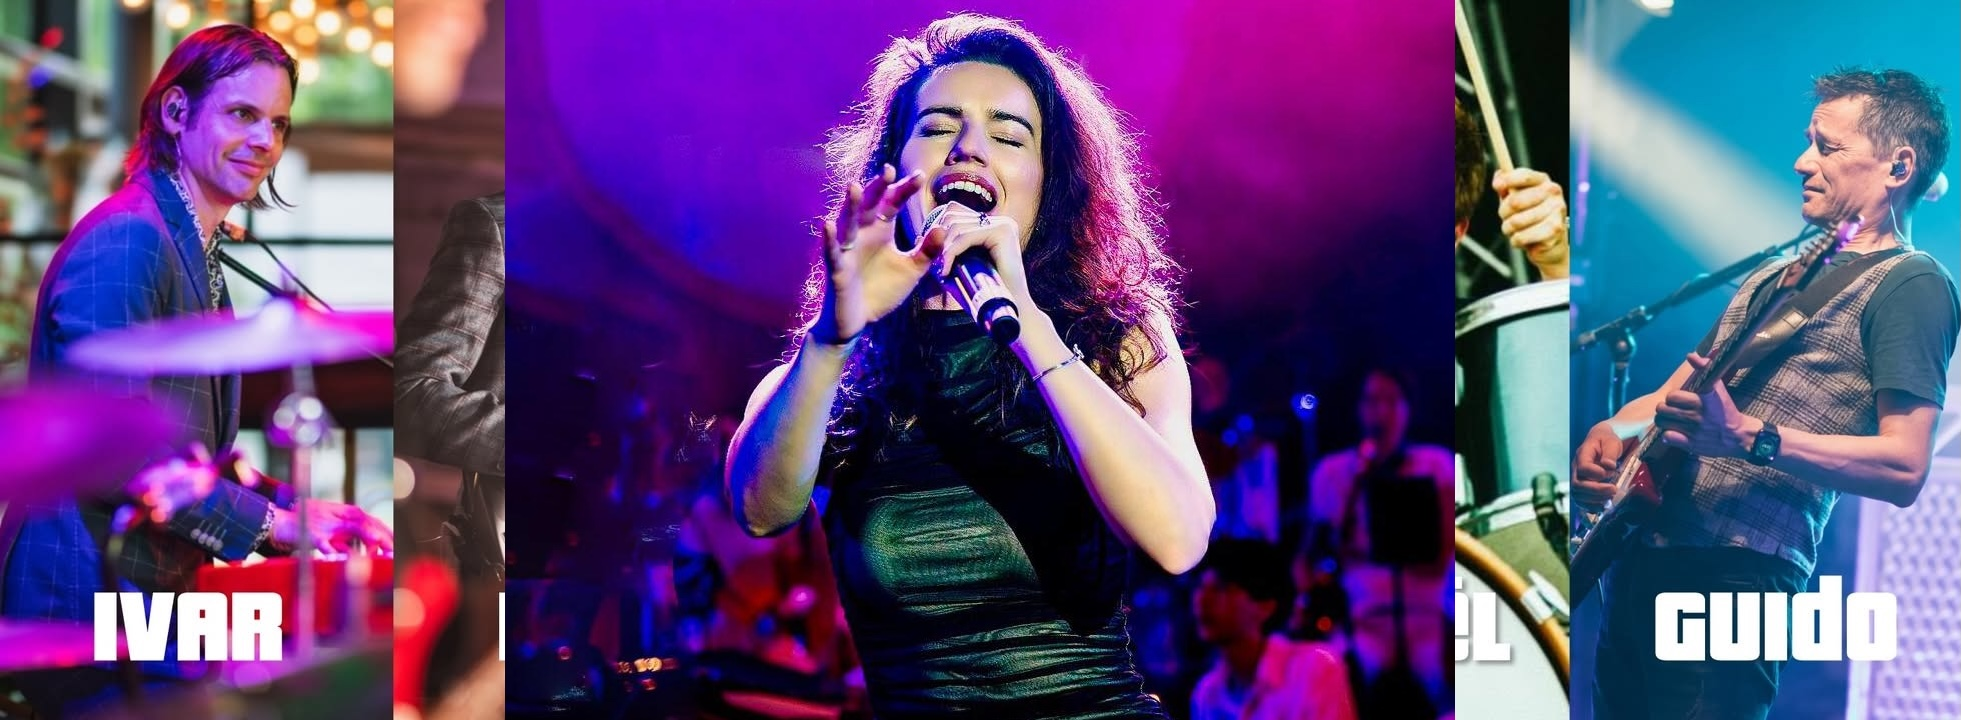
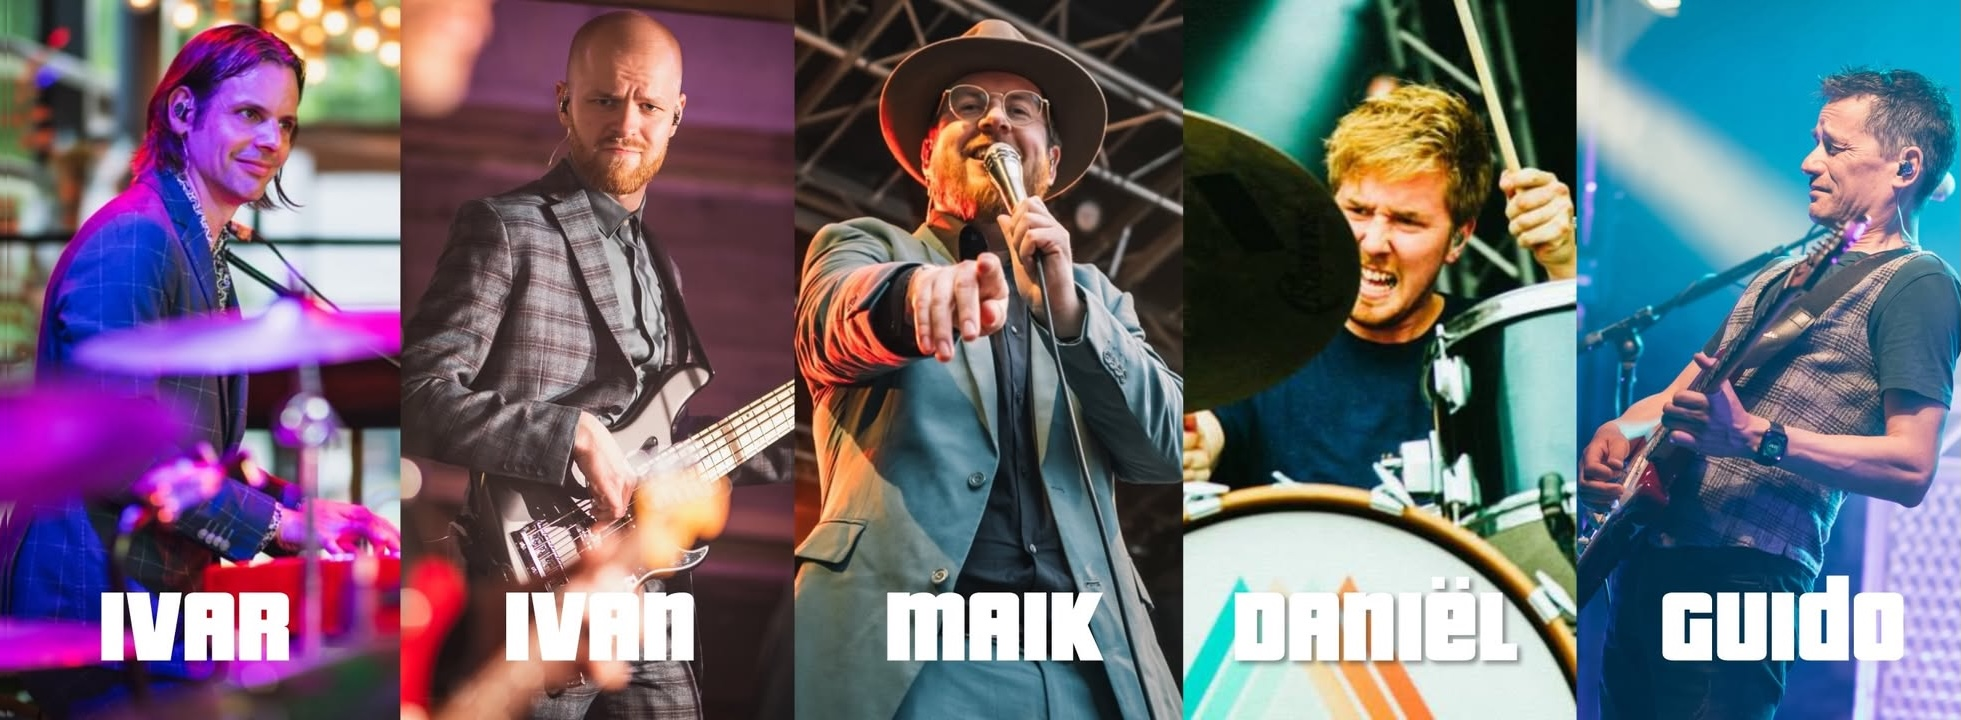
fix: revert over-ons layout, nieuwe band-members.jpg, dropdown hover
- over-ons.html terug naar originele layout (2-col announcement)
- band-members.jpg vervangen door gecorrigeerde versie
- dropdown menu: pseudo-element brug voorkomt hover-onderbreking

diff --git a/over-ons.html b/over-ons.html
@@ -101,44 +101,33 @@
 
 <!-- ANNOUNCEMENT -->
 <section class="section-dark" style="padding:60px 0;">
-  <div class="container" style="max-width:820px;">
-    <div style="background:linear-gradient(135deg,rgba(255,232,0,.12),rgba(255,136,0,.08));border:2px solid var(--yellow);border-radius:12px;padding:40px 48px;">
-      <div style="display:inline-block;background:var(--yellow);color:var(--dark);font-family:'Montserrat',sans-serif;font-weight:700;font-size:.7rem;text-transform:uppercase;letter-spacing:.1em;padding:4px 14px;border-radius:99px;margin-bottom:20px;">Nieuws</div>
-      <h2 style="font-size:clamp(1.4rem,2.5vw,2rem);margin-bottom:16px;color:var(--white);">Welkom, <span style="color:var(--yellow);">Anne Mieke!</span></h2>
-      <p style="color:rgba(255,255,255,.85);margin-bottom:16px;line-height:1.8;">
-        Het heeft ruim 20 jaar geduurd voordat we het aandurfden, maar vol trots kondigen we hierbij aan dat naast onze frontman Maik voortaan een fantastische zangeres zal staan: <strong style="color:var(--white);">Anne Mieke!</strong>
-      </p>
-      <p style="color:rgba(255,255,255,.75);line-height:1.8;">
-        We zijn op zoek gegaan naar een frontvrouw die niet alleen kan zingen, maar ook écht impact heeft en die een perfecte match is met Maik. Anne Mieke stond vorige maand nog als solist te schitteren in Het Concertgebouw in Amsterdam en brengt een bak aan ervaring, muzikaliteit en power mee waar je u tegen zegt.
-      </p>
-    </div>
-  </div>
-</section>
-
-<!-- ANNE MIEKE FOTO -->
-<section class="section-dark2" style="padding:0 0 60px;">
-  <div class="container" style="max-width:820px;">
-    <div style="border-radius:12px;overflow:hidden;box-shadow:0 16px 48px rgba(0,0,0,.5);">
-      <img src="images/anne-mieke.jpg"
-           alt="Anne Mieke — nieuwe frontvrouw jeWelste"
-           style="width:100%;max-height:500px;object-fit:cover;object-position:center top;display:block;">
+  <div class="container">
+    <div style="background:linear-gradient(135deg,rgba(255,232,0,.12),rgba(255,136,0,.08));border:2px solid var(--yellow);border-radius:12px;padding:40px 48px;display:grid;grid-template-columns:1fr 340px;gap:48px;align-items:center;">
+      <div>
+        <div style="display:inline-block;background:var(--yellow);color:var(--dark);font-family:'Montserrat',sans-serif;font-weight:700;font-size:.7rem;text-transform:uppercase;letter-spacing:.1em;padding:4px 14px;border-radius:99px;margin-bottom:20px;">Nieuws</div>
+        <h2 style="font-size:clamp(1.4rem,2.5vw,2rem);margin-bottom:16px;color:var(--white);">Welkom, <span style="color:var(--yellow);">Anne Mieke!</span></h2>
+        <p style="color:rgba(255,255,255,.85);margin-bottom:16px;line-height:1.8;">
+          Het heeft ruim 20 jaar geduurd voordat we het aandurfden, maar vol trots kondigen we hierbij aan dat naast onze frontman Maik voortaan een fantastische zangeres zal staan: <strong style="color:var(--white);">Anne Mieke!</strong>
+        </p>
+        <p style="color:rgba(255,255,255,.75);line-height:1.8;">
+          We zijn op zoek gegaan naar een frontvrouw die niet alleen kan zingen, maar ook écht impact heeft en die een perfecte match is met Maik. Anne Mieke stond vorige maand nog als solist te schitteren in Het Concertgebouw in Amsterdam en brengt een bak aan ervaring, muzikaliteit en power mee waar je u tegen zegt.
+        </p>
+      </div>
+      <div style="border-radius:12px;overflow:hidden;box-shadow:0 16px 48px rgba(0,0,0,.5);">
+        <img src="images/anne-mieke.jpg"
+             alt="Anne Mieke — nieuwe frontvrouw jeWelste"
+             style="width:100%;height:400px;object-fit:cover;object-position:center top;display:block;">
+      </div>
     </div>
   </div>
 </section>
 
 <!-- BAND MEMBERS -->
-<section class="section-dark2" style="padding-top:0;">
+<section class="section-dark2">
   <div class="container">
-    <div class="section-header" style="padding-top:60px;border-top:1px solid rgba(255,255,255,.1);">
+    <div class="section-header">
       <h2>De band</h2>
       <p>Zes muzikanten met één missie: uw feest onvergetelijk maken.</p>
-    </div>
-
-    <!-- Groepsfoto 5 heren -->
-    <div style="border-radius:10px;overflow:hidden;margin-bottom:48px;box-shadow:0 12px 40px rgba(0,0,0,.5);">
-      <img src="images/band-members.jpg"
-           alt="jeWelste bandleden: Ivar, Ivan, Maik, Daniël en Guido"
-           style="width:100%;display:block;max-height:380px;object-fit:cover;object-position:center 20%;">
     </div>
 
     <div class="band-grid">
@@ -172,6 +161,17 @@
         <h4>Guido</h4>
         <p>Gitaar &amp; vocals</p>
       </div>
+    </div>
+  </div>
+</section>
+
+<!-- GROEPSFOTO -->
+<section class="section-dark" style="padding-top:0;">
+  <div class="container">
+    <div style="border-radius:10px;overflow:hidden;box-shadow:0 12px 40px rgba(0,0,0,.5);">
+      <img src="images/band-members.jpg"
+           alt="jeWelste bandleden: Ivar, Ivan, Maik, Daniël en Guido"
+           style="width:100%;display:block;max-height:440px;object-fit:cover;object-position:center 20%;">
     </div>
   </div>
 </section>

diff --git a/css/style.css b/css/style.css
@@ -109,7 +109,7 @@ nav {
 .dropdown-menu {
   display: none;
   position: absolute;
-  top: calc(100% + 8px);
+  top: 100%;
   left: 0;
   background: var(--dark);
   border-top: 3px solid var(--yellow);
@@ -117,6 +117,18 @@ nav {
   list-style: none;
   padding: 8px 0;
   box-shadow: 0 8px 24px rgba(0,0,0,.5);
+  /* Transparante brug zodat hover niet onderbreekt bij de gap */
+  margin-top: 0;
+}
+
+/* Pseudo-element overbrugt de ruimte tussen link en menu */
+.nav-dropdown::after {
+  content: '';
+  position: absolute;
+  top: 100%;
+  left: 0;
+  right: 0;
+  height: 12px;
 }
 
 .dropdown-menu li a {
